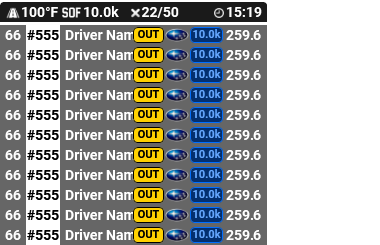
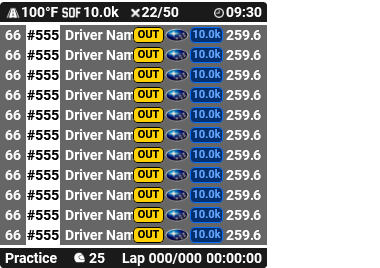
Added footer to Relative overlay

diff --git a/Plugin/SettingsControl.xaml b/Plugin/SettingsControl.xaml
@@ -239,6 +239,13 @@
                         </styles:SHToggleCheckbox>
 
                         <styles:SHToggleCheckbox 
+                            ToolTip="Show the footer with additional session information" 
+                            HorizontalAlignment="Left" Margin="0,0,4,8"
+                            IsChecked="{Binding Plugin.Modules[RelativeModule].Settings.FooterVisible, Mode=TwoWay, UpdateSourceTrigger=PropertyChanged}">
+                            Show footer
+                        </styles:SHToggleCheckbox>
+
+                        <styles:SHToggleCheckbox 
                             ToolTip="Show the car brand logo column when available" 
                             HorizontalAlignment="Left" Margin="0,0,4,8"
                             IsChecked="{Binding Plugin.Modules[RelativeModule].Settings.CarLogoVisible, Mode=TwoWay, UpdateSourceTrigger=PropertyChanged}">

diff --git a/Overlays/benofficial2 - iRacing Relative/JavascriptExtensions/Common.js b/Overlays/benofficial2 - iRacing Relative/JavascriptExtensions/Common.js
@@ -70,3 +70,25 @@ function isOffline()
 {
     return isnull($prop('benofficial2.Session.Offline'), false);
 }
+
+function formatSecondsToTimecode(totalSeconds) 
+{
+    if (totalSeconds < 0 || totalSeconds > 172800)
+    {
+        return '';
+    }
+
+    totalSeconds = Math.floor(totalSeconds); // Ensure it's an integer
+    const hours = Math.floor(totalSeconds / 3600);
+    const minutes = Math.floor((totalSeconds % 3600) / 60);
+    const seconds = totalSeconds % 60;
+    
+    if (hours > 0) 
+    {
+        return `${hours}:${minutes.toString().padStart(2, '0')}:${seconds.toString().padStart(2, '0')}`;
+    } 
+    else 
+    {
+        return `${minutes}:${seconds.toString().padStart(2, '0')}`;
+    }
+}

diff --git a/Plugin/Modules/Relative.cs b/Plugin/Modules/Relative.cs
@@ -32,6 +32,7 @@ namespace benofficial2.Plugin
         public int MaxRows { get; set; } = 3;
         public bool HeaderVisible { get; set; } = true;
         public int HeaderOpacity { get; set; } = 90;
+        public bool FooterVisible { get; set; } = false;
         public bool CarLogoVisible { get; set; } = true;
         public int AlternateRowBackgroundColor { get; set; } = 5;
         public bool HighlightPlayerRow { get; set; } = true;
@@ -100,6 +101,7 @@ namespace benofficial2.Plugin
             plugin.AttachDelegate(name: "Relative.MaxRows", valueProvider: () => Settings.MaxRows);
             plugin.AttachDelegate(name: "Relative.HeaderVisible", valueProvider: () => Settings.HeaderVisible);
             plugin.AttachDelegate(name: "Relative.HeaderOpacity", valueProvider: () => Settings.HeaderOpacity);
+            plugin.AttachDelegate(name: "Relative.FooterVisible", valueProvider: () => Settings.FooterVisible);
             plugin.AttachDelegate(name: "Relative.CarLogoVisible", valueProvider: () => Settings.CarLogoVisible);
             plugin.AttachDelegate(name: "Relative.AlternateRowBackgroundColor", valueProvider: () => Settings.AlternateRowBackgroundColor);
             plugin.AttachDelegate(name: "Relative.HighlightPlayerRow", valueProvider: () => Settings.HighlightPlayerRow);
